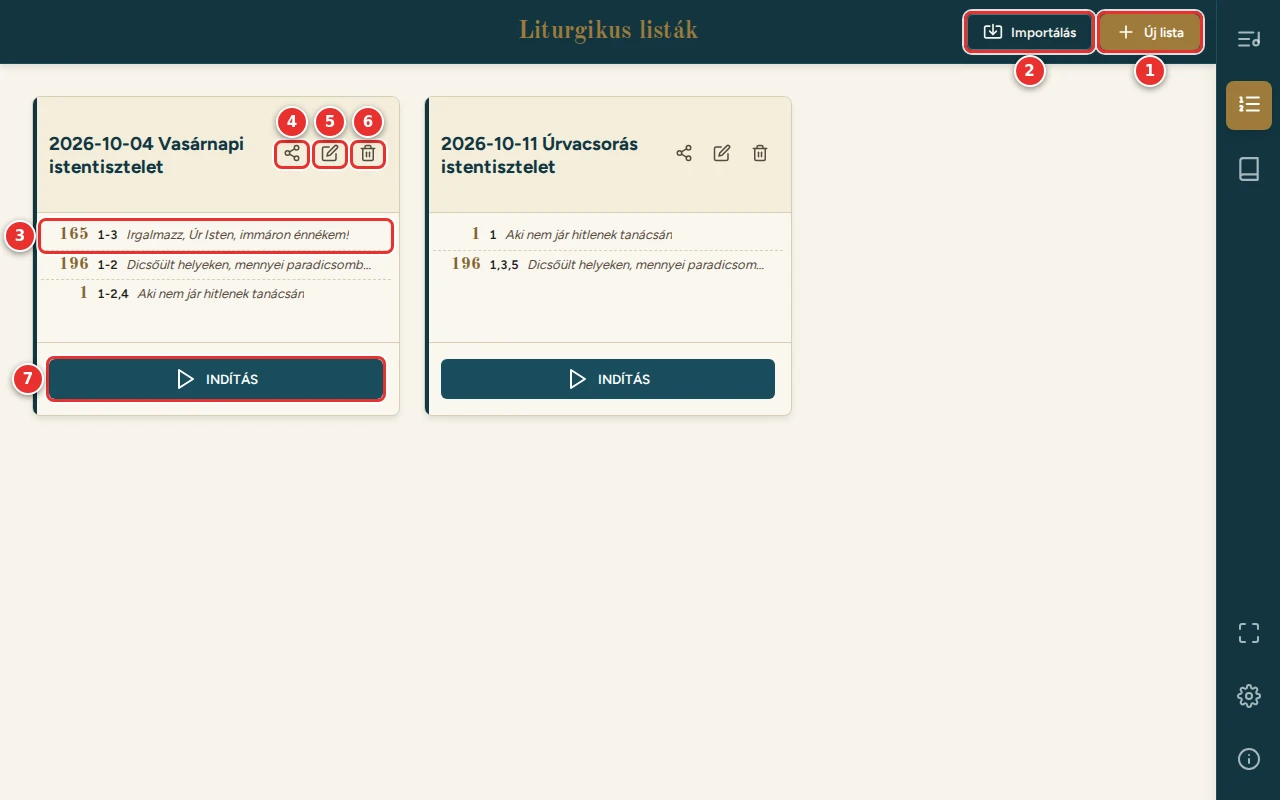
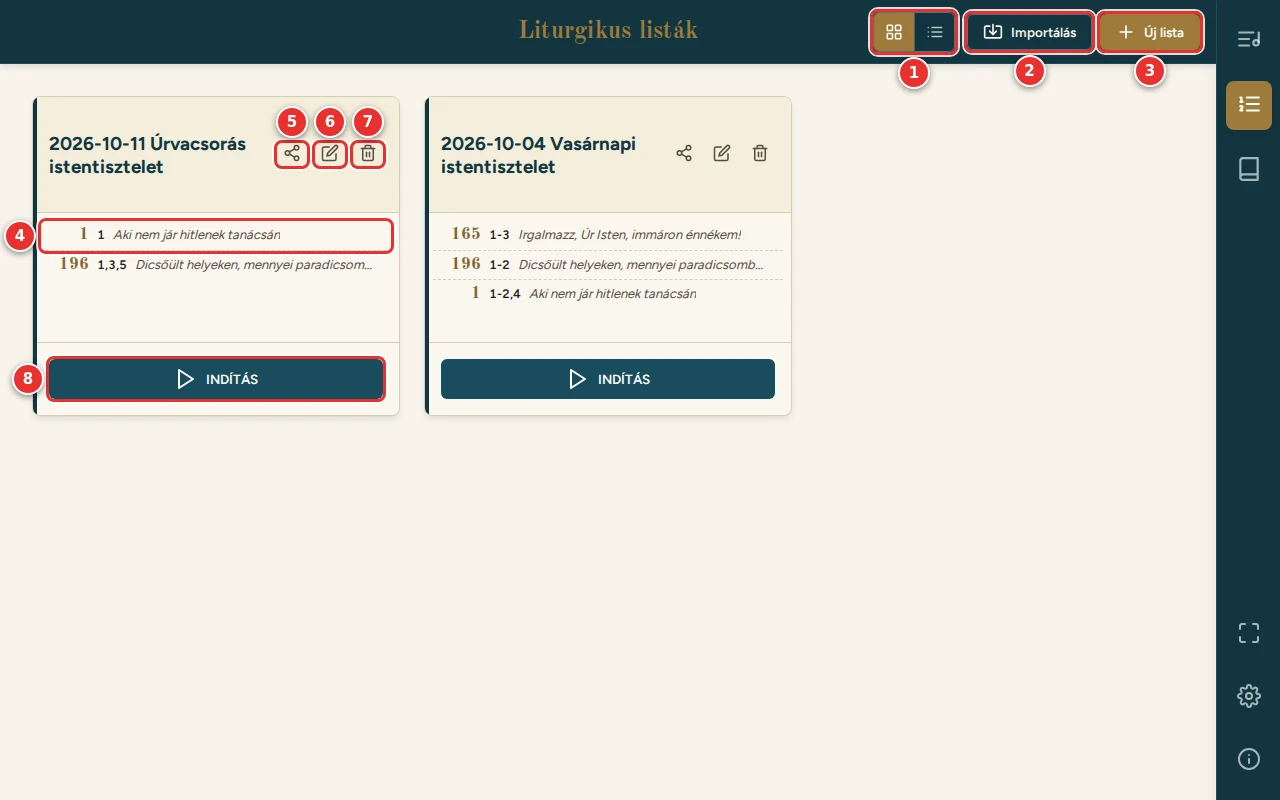
Útmutató: a Listák oldal nézetei, a legújabb lista elöl
- Listák: a nézetváltó (új számozás a képen), új szakasz és kép a listás nézetről; a Hozzáadás ablakban a cél lista
  alapból a legújabb.
- docs/README.md: a tartalomjegyzékben a listás nézet.

Claude-Session: https://claude.ai/code/session_01MYqJg8neyYipr8qNEmiZrX

diff --git a/docs/05-listak.md b/docs/05-listak.md
@@ -7,16 +7,32 @@ versszakokkal. A listák **ezen a készüléken** tárolódnak. Másik eszközre
 
 ## A Listák oldal
 
+A listák közül mindig a **legújabb** áll elöl (amelyiket utoljára hoztad létre vagy importáltad).
+
 ![A Listák oldal](kepek/listak.webp)
 
-1. **Új lista:** új, üres lista (lásd lent).
+1. **Nézet:** csempék (alapértelmezett) vagy lista (lásd lent: [Listás nézet](#listás-nézet)). A választott nézet
+   ezen a készüléken megmarad.
 2. **Importálás:** lista beolvasása kódból, linkből, fájlból vagy QR-kódról (lásd: [Megosztás és
    importálás](07-megosztas.md)).
-3. **A lista énekei:** énekszám, a kiválasztott versszakok (pl. `1-3`, `1,3,5`) és a kezdősor.
-4. **Megosztás:** a lista kódja és QR-kódja.
-5. **Szerkesztés:** megnyitja a lista szerkesztőjét. A kártyára koppintva is megnyílik.
-6. **Törlés:** a lista törlése (a program előtte megerősítést kér).
-7. **Indítás:** a lista megnyitása a [lejátszóban](06-lejatszo.md).
+3. **Új lista:** új, üres lista (lásd lent).
+4. **A lista énekei:** énekszám, a kiválasztott versszakok (pl. `1-3`, `1,3,5`) és a kezdősor.
+5. **Megosztás:** a lista kódja és QR-kódja.
+6. **Szerkesztés:** megnyitja a lista szerkesztőjét. A kártyára koppintva is megnyílik.
+7. **Törlés:** a lista törlése (a program előtte megerősítést kér).
+8. **Indítás:** a lista megnyitása a [lejátszóban](06-lejatszo.md).
+
+### Listás nézet
+
+Sok lista esetén áttekinthetőbb: soronként egy lista, az énekei nélkül, a Könyvtár énekkártyáihoz hasonlóan.
+
+![A Listák oldal listás nézetben](kepek/listak-lista.webp)
+
+1. **A lista neve.** Ha a név dátummal kezdődik (a naptár gombbal), a dátum talpas betűvel, külön látszik.
+2. **Megosztás, Szerkesztés, Törlés:** ugyanaz, mint a csempén.
+3. **Indítás:** a lista megnyitása a lejátszóban, a többi gombbal egy sorban. Telefonon csak a ▶ ikon látszik.
+
+A sorra koppintva a lista szerkesztője nyílik meg.
 
 ## Új lista
 
@@ -38,8 +54,8 @@ Két helyről lehet énekeket a listára tenni.
 
 ![A Hozzáadás ablak](kepek/hozzaadas.webp)
 
-1. **Cél lista:** melyik listára kerüljön az ének. Az **+ Új lista…** sorral itt is létrehozható új lista, a naptár
-   gombbal együtt.
+1. **Cél lista:** melyik listára kerüljön az ének. Alapból a legújabb lista van kiválasztva, a választóban is ez áll
+   elöl. Az **+ Új lista…** sorral itt is létrehozható új lista, a naptár gombbal együtt.
 2. **Előjáték:** az ének oldalán választott előjáték, itt módosítható. A „Nincs kiválasztva” sorral elhagyható.
 3. **Változat:** a letét. Az ének oldaláról az ott látott letét, a lista szerkesztőjéből a legjobbra értékelt (lásd:
    [A letétek értékelése](03-konyvtar.md#a-letétek-értékelése)). A választóban az értékelt letétek mellett a

diff --git a/docs/README.md b/docs/README.md
@@ -17,7 +17,7 @@ kottakönyvekkel internet nélkül is működik.
 3. [Könyvtár és az ének oldala](03-konyvtar.md) – keresés, kulcsszavak, letét és előjáték, a letétek értékelése,
    nagyítás
 4. [Szövegpanel, megjegyzés, regisztráció](04-szovegpanel.md)
-5. [Listák](05-listak.md) – lista összeállítása az istentiszteletre
+5. [Listák](05-listak.md) – lista összeállítása az istentiszteletre; csempék vagy listás nézet
 6. [Lejátszó](06-lejatszo.md) – az istentisztelet alatt: lapozás koppintással vagy pedállal
 7. [Megosztás és importálás](07-megosztas.md) – lista átküldése másik eszközre kóddal vagy QR-kóddal
 8. [Beállítások](08-beallitasok.md)
